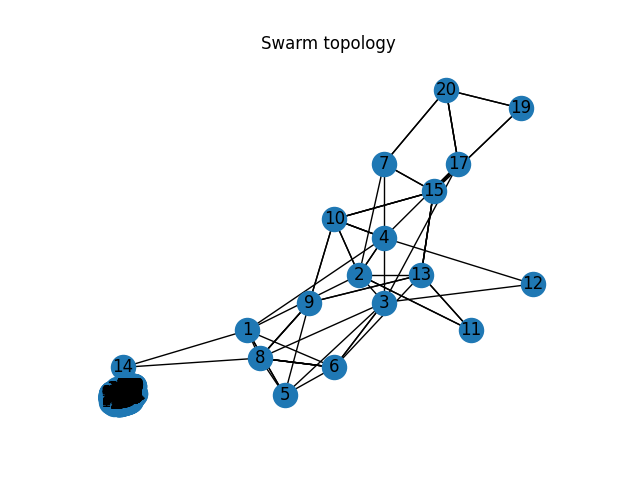
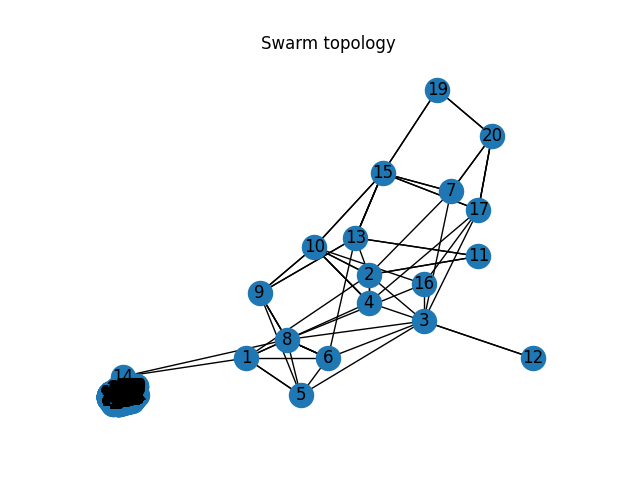
graph crossing added

diff --git a/graph_crossing.py b/graph_crossing.py
@@ -1,0 +1,116 @@
+import sys
+
+import networkx as nx
+from matplotlib import pyplot as plt
+from shapely.geometry import MultiLineString, LineString
+from itertools import combinations
+
+multiline = MultiLineString([[(614633.1598889811, 6614684.232110311), (614585.0239559432, 6615176.69973293),
+                              (614244.3696605981, 6615210.024609649), (614174.0171430812, 6615058.211282375)],
+                             [(614849.2836035677, 6614574.273030049), (615163.3363697577, 6614591.624011607),
+                              (615477.7302093033, 6614608.993836996), (615475.8039105758, 6614892.159749944),
+                              (615474.6318041045, 6615064.459401229), (614967.3343471865, 6615119.389699113)],
+                             [(615054.1363645532, 6614185.399992246), (615163.3363697577, 6614591.624011607),
+                              (615227.7403992868, 6614831.207001455), (615475.8039105758, 6614892.159749944),
+                              (615835.3545208545, 6614980.506471327), (615867.958614701, 6615021.869873968),
+                              (615474.6318041045, 6615064.459401229), (615474.2581286087, 6615119.389699113),
+                              (615286.7657710963, 6615227.024200648)],
+                             [(616057.5676853136, 6615001.338955494), (615867.958614701, 6615021.869873968),
+                              (616067.9839273975, 6615275.633330373)]])
+
+for line1, line2 in combinations([line for line in multiline], 2):
+    if line1.intersects(line2):
+        print(line1.intersection(line2))
+
+line1 = LineString([(0, 0), (5, 5)])
+
+line2 = LineString([(5, 0), (0, 5)])
+
+line3 = LineString([(1, 0), (5, 4)])
+
+line4 = LineString([(4, 0), (0, 4)])
+
+# print(line1.intersection(line4))
+if line1.intersects(line3):
+    print("done")
+
+"Testing the edges "
+
+total_edges = MultiLineString([[(0, 0), (5, 5)],
+                               [(5, 0), (0, 5)],
+                               [(1, 0), (5, 4)],
+                               [(4, 0), (0, 4)],
+                               ])
+count = 0
+for line1, line2 in combinations([line for line in total_edges], 2):
+
+    if line1.crosses(line2):
+        print(line1.intersection(line2))
+        count += 1
+
+print(count)
+def find_graph_crossing(Batch, pos):
+    G_pos = {1: (9, 4), 2: (18, 13), 3: (22, 8), 4: (18, 10), 5: (13, 0), 6: (15, 4), 7: (24, 22), 8: (12, 6), 9: (10, 11),
+         10: (14, 16), 11: (26, 15), 12: (30, 4), 13: (17, 17), 14: (0, 2), 15: (19, 24), 16: (22, 12), 17: (26, 20),
+         19: (23, 33), 20: (27, 28)}
+
+    Batch = [[1, 5, 9, 10, 2, 11, 13, 15, 7, 20],
+         [1, 2, 7, 3, 5, 6, 8, 9, 13, 15, 19, 20],
+         [1, 5, 8, 6, 3, 2, 4, 10, 15, 17, 20],
+         [1, 8, 9, 10, 2, 11, 13, 15, 7, 20],
+         [1, 4, 17, 3, 8, 9, 13, 15, 19, 20],
+         [1, 6, 8, 6, 3, 12, 4, 10, 15, 17, 20],
+         [1, 14, 8, 6, 13, 2, 4, 10, 15, 17, 20]]
+
+    print(Batch[0])
+    Batch_sequence = Batch
+
+    edge_list = []
+    edge_pos_list = []
+    for i in range(len(Batch_sequence)):
+        edges = []
+        edges_pos = []
+        for j in range(len(Batch_sequence[i]) - 1):
+            edge = [Batch_sequence[i][j], Batch_sequence[i][j + 1]]
+            edge_pos = [G_pos[Batch_sequence[i][j]], G_pos[Batch_sequence[i][j + 1]]]
+            edges.append(edge)
+            edges_pos.append(edge_pos)
+        edge_list.append(edges)
+        edge_pos_list.append(edges_pos)
+
+    print(edge_list)
+    print(edge_pos_list)
+
+
+    multi_strng_list = []
+
+    for pos_seq in edge_pos_list:
+        e = MultiLineString(pos_seq)
+        multi_strng_list.append(e)
+
+    for i in multi_strng_list:
+        print(i)
+
+
+    c = 0
+    for multi_strng in multi_strng_list:
+        for line1, line2 in combinations([line for line in multi_strng], 2):
+            if line1.crosses(line2):
+                print(line1.intersection(line2))
+                c += 1
+
+    return c
+
+
+sys.exit()
+"Draw graph of the subject"
+
+G = nx.MultiGraph()
+G.add_nodes_from(Batch_sequence)
+G.add_edges_from(edge_list)
+plt.figure()
+plt.title(f"The plot belongs to initial population {i + 1} ")
+nx.draw(G, G_pos, with_labels=True)
+plt.grid(True)
+plt.pause(0.05)
+plt.show()
